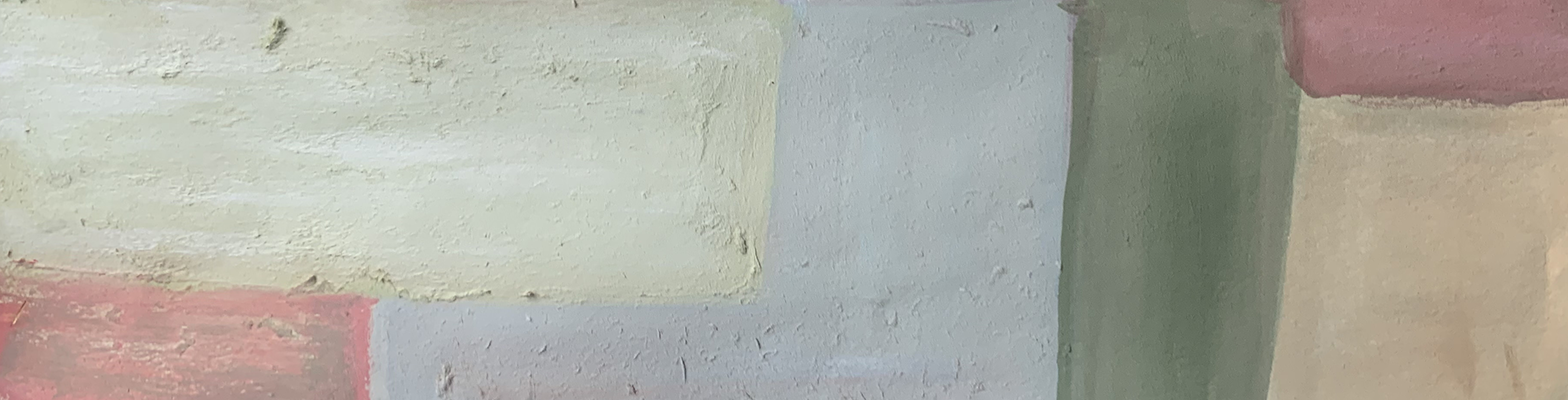
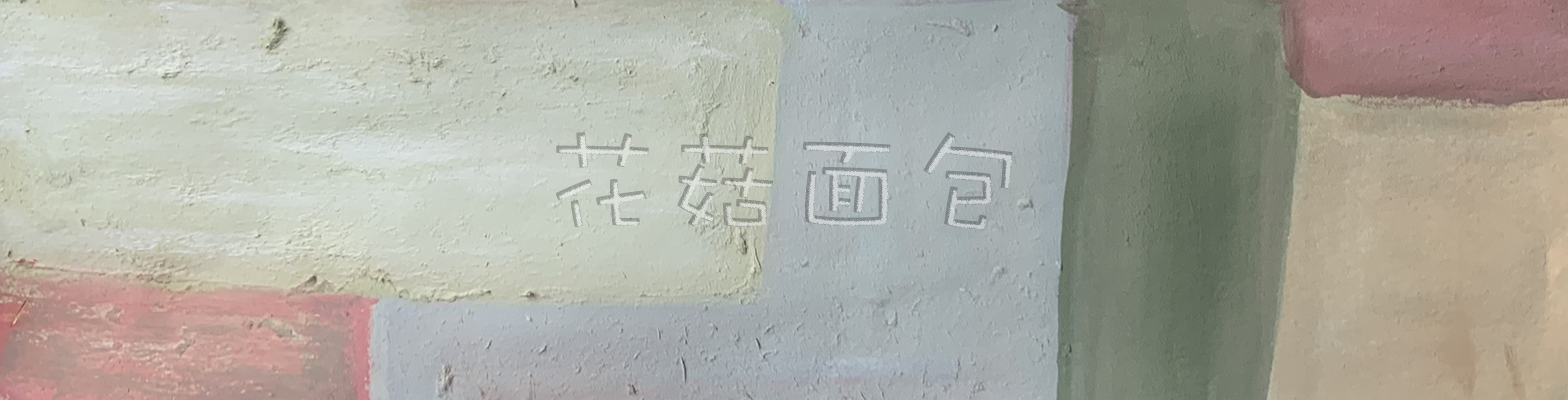
blog1.0，without js.

Changed region(s): [[0.3438, 0.33, 0.6562, 0.57], [0.375, 0.54, 0.4062, 0.57]]

diff --git a/style/main.css b/style/main.css
@@ -1,5 +1,11 @@
 body {
-    background: #FAFFF0;
+    background: #bac0ad;
+}
+@font-face
+{
+	font-family: myFirstFont;
+	src: url('Sansation_Light.ttf')
+		,url('Sansation_Light.eot'); /* IE9 */
 }
 .flexbody {
     display: flex;
@@ -15,33 +21,49 @@ body {
     padding: 20px 0;
     margin: 0 auto;
 }
-/* .shadow {
-    box-shadow: 0 8px 10px 0 rgba(170, 170, 170, 0.2), 0 6px 11px 2px rgba(143, 143, 143, 0.61);
-} */
-.header p{
+
+.header h1{
     width: 100%;
     text-align: center;
-    font: 4em "FangSong_GB2312" ;
-    text-shadow: 1px 1px 5px rgb(133, 133, 133);
-    color: rgb(54, 99, 53);
+    font: 8em "微软雅黑" ;
+    background-image: url(/media/img/DSC01712.JPG) ;
+    -webkit-background-clip: text;
+    color: transparent; 
+    
 }
-.box1 h2 {
+/* .box1 h2 { 
     width: 100%;
     height: auto;
     font: 1.2em  "FangSong_GB2312";
     padding: 8% 0;
     text-align: center;
     border-radius:  0 0 20px 20px;
-    /* background: rgba(17, 17, 17, 0.8); */
+    background: rgba(17, 17, 17, 0.8);
     margin: 0em;
-    /* background-image: linear-gradient(141deg,#1fc8db 51%,#2cb5e8 75%); */
+    background-image: linear-gradient(141deg,#1fc8db 51%,#2cb5e8 75%);
     background-image: url(/media/img/headbg.png) ;
     background-repeat: no-repeat;
     background-attachment: scroll;
     background-position: 30% 20%; 
-    /*text-shadow: 1px 1px 5px #333;*/
-    color:#7FFF00;
-}
+    text-shadow: 1px 1px 5px #333;
+    color: transparent;
+    text-shadow:     0 1px 0 hsl(174,5%,80%),
+    0 2px 0 hsl(174,5%,75%),
+    0 3px 0 hsl(174,5%,70%),
+    0 4px 0 hsl(174,5%,66%),
+    0 5px 0 hsl(174,5%,64%),
+    0 6px 0 hsl(174,5%,62%),
+    0 7px 0 hsl(174,5%,61%),
+    0 8px 0 hsl(174,5%,60%),
+
+    0 0 5px rgba(0,0,0,.05),
+   0 1px 3px rgba(0,0,0,.2),
+   0 3px 5px rgba(0,0,0,.2),
+  0 5px 10px rgba(0,0,0,.2),
+ 0 10px 10px rgba(0,0,0,.2),
+ 0 20px 20px rgba(0,0,0,.3);
+    
+}*/
 .header h3{
     text-align: center;
     font: 1.2em "FangSong_GB2312";
@@ -50,16 +72,10 @@ body {
 .header {
     width: 63.3vw;
     height: 400px;
-    border-radius:  20px;
-    /* background: #1fc8db; */
-    /* background-image: linear-gradient(141deg,#59f3b0 0%,#1fc8db 51%,#2cb5e8 75%); */
-    background-image: url(/media/img/headbg.png) ;
+    border-radius:  3vh;
+    background: url(/media/img/headbg.png) center;
     margin: 80px 10px 30px 10px;
 }
-/* .box {
-    column-count: 4;
-    column-gap: 0px;
-} */
 .box1 {
     width: 90%;
     margin: 0 auto;
@@ -67,7 +83,7 @@ body {
 .img1 {
     width: 100%;
     height: 100%;
-    border-radius: 20px 20px 0 0 ;
+    border-radius: 3vh  ;
 }
 @media screen and (max-width: 10800px) {
     .box {

diff --git a/index.html b/index.html
@@ -10,33 +10,26 @@
  
 <body class="flexbody">
     <div class="header  flexbody " >
-        <p>花菇面包</p>
-        <h3>大隐隐于市</h3>
+        <!-- <h1 class="shadow">花菇面包</h1> -->
     </div>
 <div class="box">
     <div class="box1 flexbox">
         <img class="img1 " src="/media/img/2021081501.jpeg" >
-        <h2 style="background-position: 'voidmain()'% 60%;">花 园 一 角</h2>
     </div>
     <div class="box1 flexbox">
         <img class="img1 " src="/media/img/DSC01712.JPG" >
-        <h2>春 姑 娘</h2>
     </div>
     <div class="box1 flexbox">
         <img class="img1 " src="/media/img/DSC01713.JPG" >
-        <h2>梦 境</h2>
     </div>
     <div class="box1 flexbox">
         <img class="img1 " src="/media/img/DSC01714.JPG" >
-        <h2>光 束</h2>
     </div>
     <div class="box1 flexbox">
         <img class="img1 " src="/media/img/DSC01715.JPG" >
-        <h2>素 白</h2>
     </div>
     <div class="box1 flexbox">
         <img class="img1 " src="/media/img/DSC01716.JPG" >
-        <h2>台 阶 之 下</h2>
     </div>
 </div>
 </body>

diff --git a/JavaScript/Main.js b/JavaScript/Main.js
@@ -7,3 +7,4 @@ public static void main(String[] args)
 　　　　System.out.println(ran1);
 　　}
 }
+
